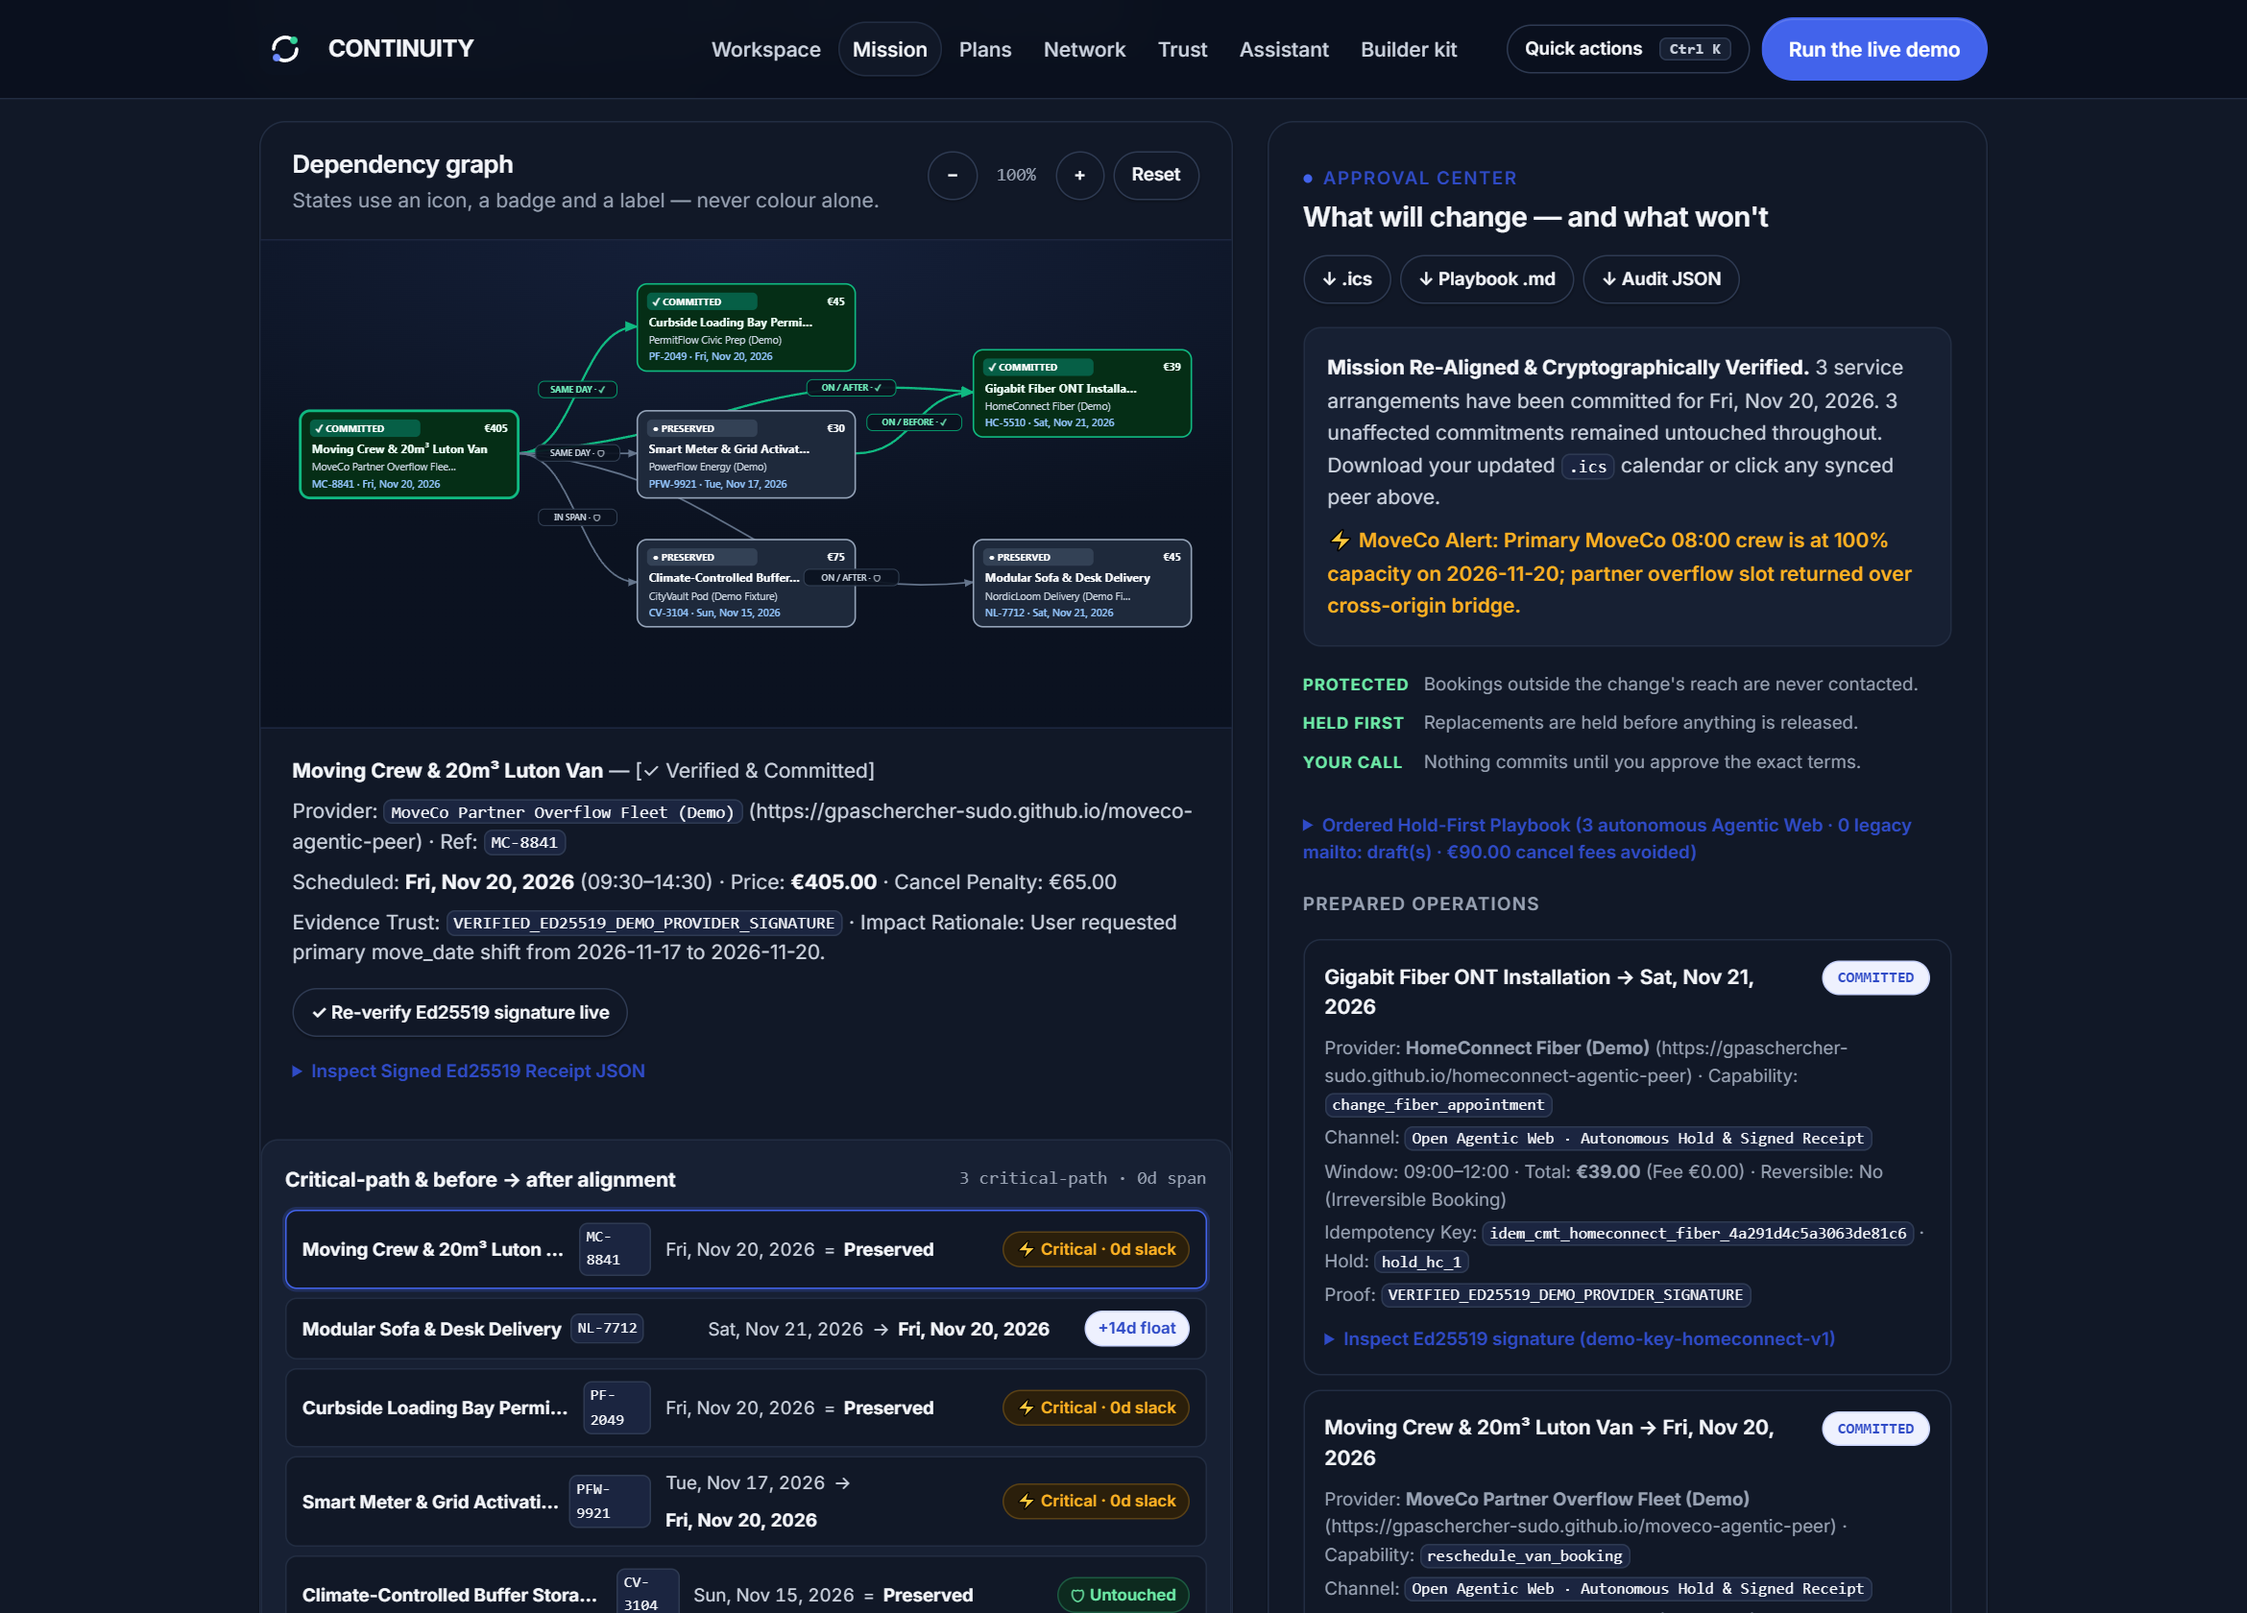
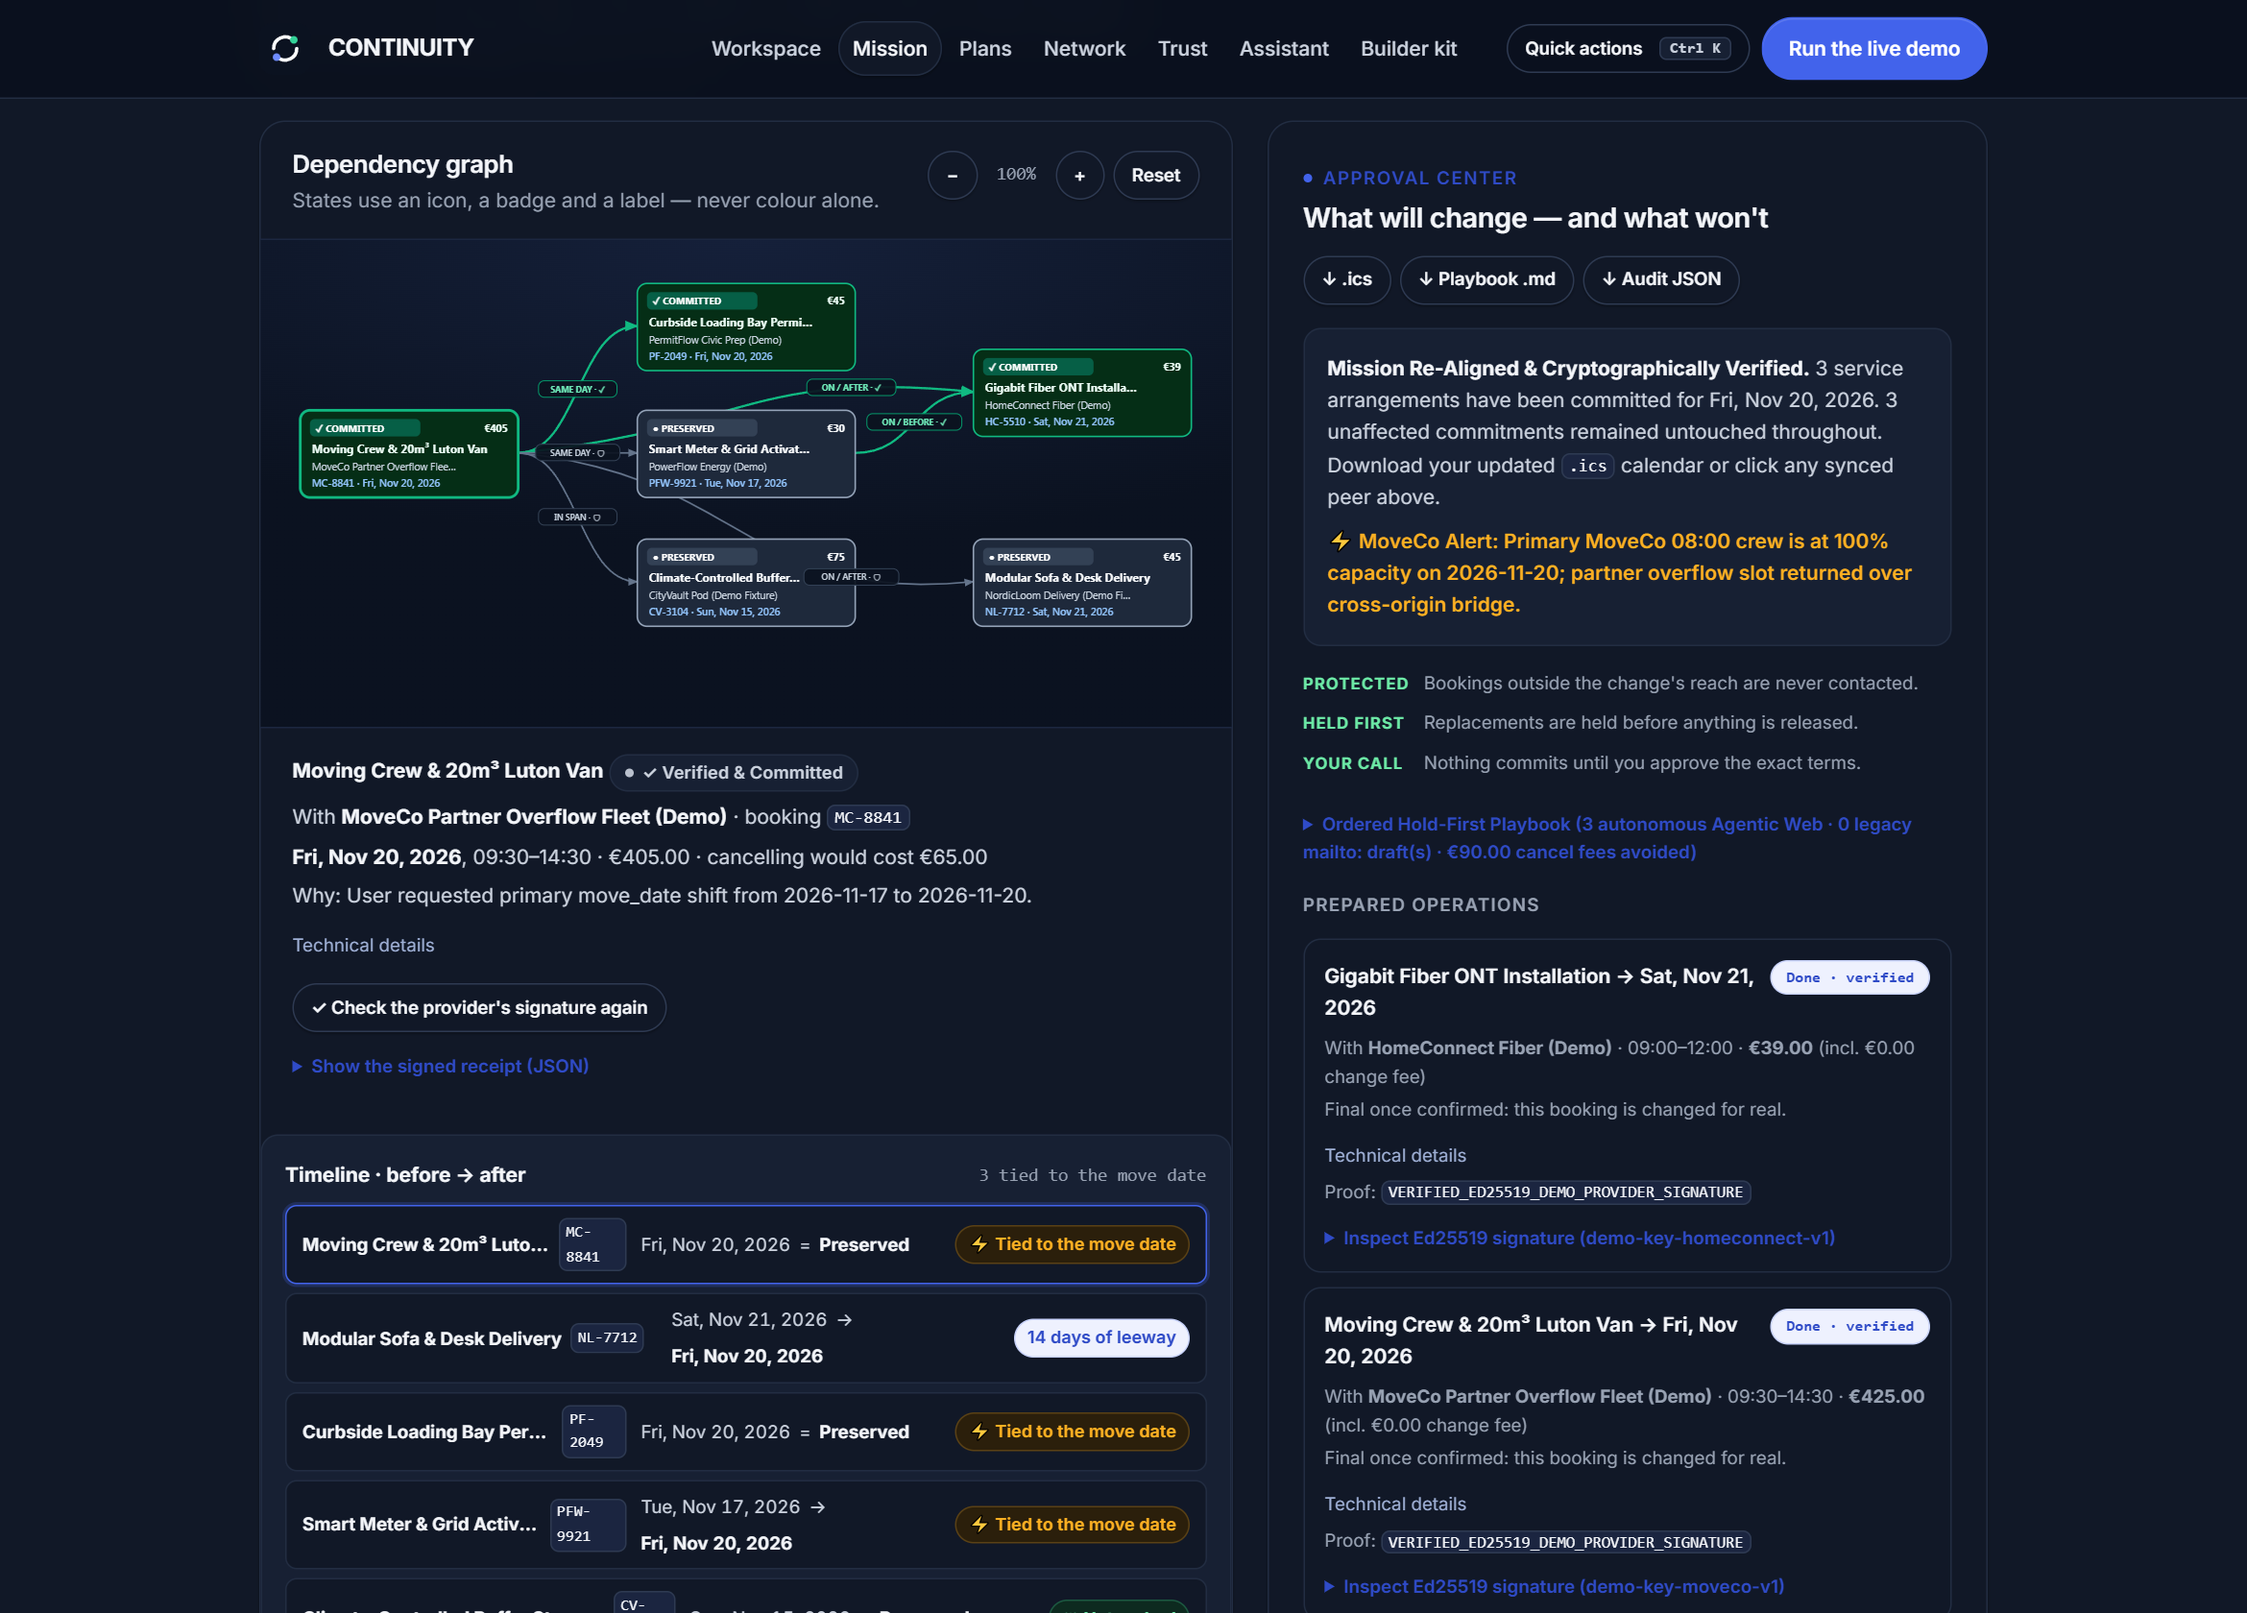
feat(ui): plain-language proof lines, plan summary and Trust center tiles
Claude-Session: https://claude.ai/code/session_01G5J9oM5g3DGDmTQiK1m8Kt

diff --git a/apps/continuity-web/index.html b/apps/continuity-web/index.html
@@ -461,10 +461,10 @@ Do not cancel anything or approve additional fees without my confirmation.</text
           </div>
         </div>
         <div class="trust-tiles reveal">
-          <button type="button" class="trust-tile" data-open-tab="tab-btn-timeline"><span class="tt-icon" aria-hidden="true">⛓</span><strong>Hash-chained log</strong><span>Tamper-evident history of every step</span></button>
-          <button type="button" class="trust-tile" data-open-tab="tab-btn-privacy"><span class="tt-icon" aria-hidden="true">◎</span><strong>Data minimization</strong><span>Exactly what each provider received</span></button>
-          <button type="button" class="trust-tile" data-open-tab="tab-btn-chaos"><span class="tt-icon" aria-hidden="true">⚡</span><strong>Chaos Lab</strong><span>42 failure scenarios, run in your browser</span></button>
-          <button type="button" class="trust-tile" data-open-tab="tab-btn-auditor"><span class="tt-icon" aria-hidden="true">✓</span><strong>Spec &amp; NANDA audit</strong><span>Live checks of all 5 sites</span></button>
+          <button type="button" class="trust-tile" data-open-tab="tab-btn-timeline"><span class="tt-icon" aria-hidden="true">⛓</span><strong>Activity log</strong><span>Every step, chained so it can't be edited</span></button>
+          <button type="button" class="trust-tile" data-open-tab="tab-btn-privacy"><span class="tt-icon" aria-hidden="true">◎</span><strong>Privacy</strong><span>Exactly what each provider received</span></button>
+          <button type="button" class="trust-tile" data-open-tab="tab-btn-chaos"><span class="tt-icon" aria-hidden="true">⚡</span><strong>Failure tests</strong><span>42 failure scenarios, replayed safely</span></button>
+          <button type="button" class="trust-tile" data-open-tab="tab-btn-auditor"><span class="tt-icon" aria-hidden="true">✓</span><strong>Standards check</strong><span>Live checks of all 5 sites against the open spec</span></button>
         </div>
 
         <div class="panel-card trust-panel reveal">

diff --git a/apps/continuity-web/modules/change-package-view.js b/apps/continuity-web/modules/change-package-view.js
@@ -221,7 +221,7 @@ export function renderChangePackageView(page, plan) {
   });
   if (pbDrawer && pbSummary && pbBody) {
     pbDrawer.hidden = false;
-    pbSummary.textContent = `Ordered Hold-First Playbook (${playbook.agenticStepsCount} autonomous Agentic Web · ${playbook.legacyStepsCount} legacy mailto: draft(s) · €${playbook.avoidedPenaltiesTotalEur.toFixed(2)} cancel fees avoided)`;
+    pbSummary.textContent = `Step-by-step plan: ${playbook.agenticStepsCount} handled by the providers' own sites · ${playbook.legacyStepsCount} by email · €${playbook.avoidedPenaltiesTotalEur.toFixed(2)} in cancellation fees avoided`;
     pbBody.textContent = playbook.markdown;
   }
   const playbookStepByCommitment = new Map(playbook.steps.map((s) => [s.commitmentId, s]));
@@ -232,10 +232,10 @@ export function renderChangePackageView(page, plan) {
         Number(op.base_price_eur) + Number(op.change_fee_eur || 0) + Number(op.cancellation_penalty_eur || 0);
       const stepInfo = playbookStepByCommitment.get(op.commitment_id);
       const proofBadge = op.proof_verification?.level
-        ? `<div>Proof: <code>${page.escapeXml(op.proof_verification.level)}</code></div>`
+        ? `<div class="proof-ok" title="${page.escapeXml(op.proof_verification.level)}">✓ Signed by the provider and checked</div>`
         : "";
       const receiptDrawer = op.receipt_envelope?.proof
-        ? `<details class="receipt-drawer"><summary>Inspect Ed25519 signature (${page.escapeXml(op.receipt_envelope.proof.key_id)})</summary><pre class="receipt-pre">${page.escapeXml(JSON.stringify(op.receipt_envelope, null, 2))}</pre></details>`
+        ? `<details class="receipt-drawer"><summary>Show the provider's signature (${page.escapeXml(op.receipt_envelope.proof.key_id)})</summary><pre class="receipt-pre">${page.escapeXml(JSON.stringify(op.receipt_envelope, null, 2))}</pre></details>`
         : "";
       const legacyDraftDrawer =
         stepInfo && stepInfo.executionChannel === "LEGACY_VENDOR_HOLD_FIRST_DRAFT"

diff --git a/apps/continuity-web/styles.css b/apps/continuity-web/styles.css
@@ -1077,3 +1077,4 @@ a.badge { text-decoration: none; }
 .tech-details > div { margin-top: 4px; overflow-wrap: anywhere; }
 .panel-plain { margin: 6px 0 4px; color: var(--ink-2); font-size: var(--fs-sm); max-width: 70ch; }
 .panel-plain + .panel-sub { font-size: var(--fs-xs); color: var(--muted); }
+.proof-ok { color: var(--ok, #34D399); font-weight: 600; font-size: var(--fs-xs); margin-top: 4px; }

diff --git a/design-system/themes/continuity-web.css b/design-system/themes/continuity-web.css
@@ -467,3 +467,4 @@ a.badge { text-decoration: none; }
 .tech-details > div { margin-top: 4px; overflow-wrap: anywhere; }
 .panel-plain { margin: 6px 0 4px; color: var(--ink-2); font-size: var(--fs-sm); max-width: 70ch; }
 .panel-plain + .panel-sub { font-size: var(--fs-xs); color: var(--muted); }
+.proof-ok { color: var(--ok, #34D399); font-weight: 600; font-size: var(--fs-xs); margin-top: 4px; }
